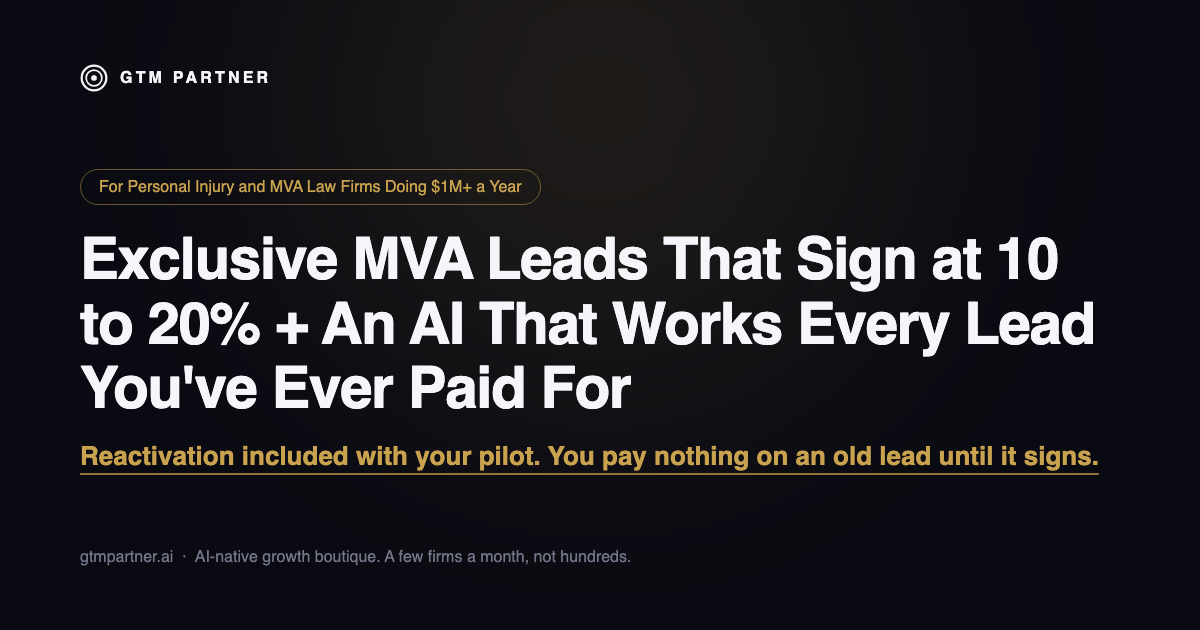
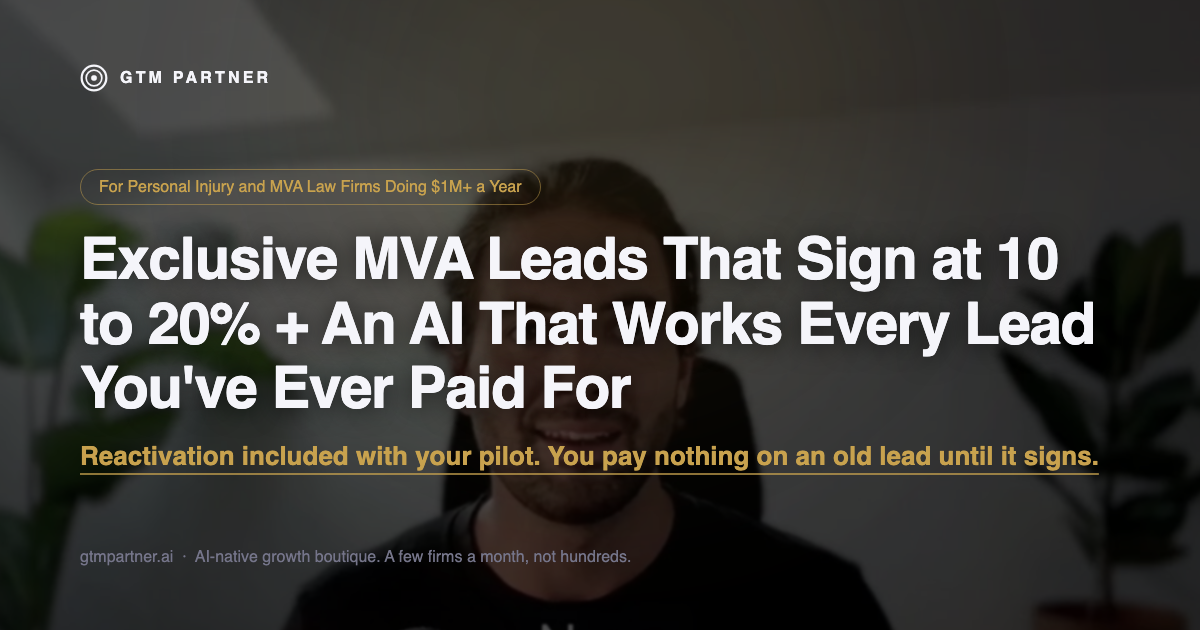
Add the VSL to the homepage
YouTube player behind a custom poster so one tap starts it with sound on
phones. No related videos, play event to Google tag, OG image from the
video still. Chat widget now loads after first scroll or 15s so it does
not cover the play button.

diff --git a/src/components/vsl.tsx b/src/components/vsl.tsx
@@ -1,63 +1,150 @@
 "use client";
 
-import { useState } from "react";
+import { useEffect, useRef, useState } from "react";
 
 type Aspect = "9/16" | "16/9";
 
+// Minimal surface of the YouTube IFrame API we touch.
+type YTPlayer = { playVideo: () => void; destroy: () => void };
+type YTNamespace = {
+  Player: new (
+    el: HTMLElement,
+    opts: {
+      videoId: string;
+      playerVars: Record<string, string | number>;
+      events: { onReady: (e: { target: YTPlayer }) => void; onStateChange: (e: { data: number }) => void };
+    },
+  ) => YTPlayer;
+  PlayerState: { PLAYING: number };
+};
+
+declare global {
+  interface Window {
+    YT?: YTNamespace;
+    onYouTubeIframeAPIReady?: () => void;
+    gtag?: (...args: unknown[]) => void;
+  }
+}
+
+const API_SRC = "https://www.youtube.com/iframe_api";
+
+function loadApi(): Promise<YTNamespace> {
+  return new Promise((resolve) => {
+    if (window.YT?.Player) return resolve(window.YT);
+    const prev = window.onYouTubeIframeAPIReady;
+    window.onYouTubeIframeAPIReady = () => {
+      prev?.();
+      if (window.YT) resolve(window.YT);
+    };
+    if (!document.querySelector(`script[src="${API_SRC}"]`)) {
+      const s = document.createElement("script");
+      s.src = API_SRC;
+      s.async = true;
+      document.head.appendChild(s);
+    }
+  });
+}
+
 /*
-  VSL_EMBED_PLACEHOLDER
-  TODO(Pierre): set `src` to the embed URL once the video exists.
-  Works with YouTube (youtube.com/embed/ID), Vimeo (player.vimeo.com/video/ID),
-  Loom (loom.com/embed/ID) and Tella (tella.tv/video/ID/embed).
-  Set `aspect` to "9/16" for a vertical video or "16/9" for a Tella recording.
-  Optional `poster` is shown until the visitor presses play.
+  The player is created behind the poster as soon as the page loads, so the
+  tap on the poster calls playVideo() inside the user gesture. That is what
+  makes it start with sound on iPhones, where an iframe added after the tap
+  is treated as autoplay and stays muted or does not start at all.
 */
 export function Vsl({
-  src = "",
-  aspect = "9/16",
+  videoId,
+  aspect = "16/9",
   poster = "",
+  duration = "",
   title = "GTM Partner video",
 }: {
-  src?: string;
+  videoId: string;
   aspect?: Aspect;
   poster?: string;
+  duration?: string;
   title?: string;
 }) {
   const [playing, setPlaying] = useState(false);
+  const [ready, setReady] = useState(false);
+  const mount = useRef<HTMLDivElement>(null);
+  const player = useRef<YTPlayer | null>(null);
   const vertical = aspect === "9/16";
 
-  // Width is derived from the aspect so a 9:16 video never exceeds 80vh
-  // and a 16:9 video fills the column. The ratio is reserved up front, so
-  // swapping in the real embed causes no layout shift.
-  // --vsl-h is 80vh on phones and shrinks on desktop so the CTA under the
-  // player stays above the fold on a 900px tall screen.
+  useEffect(() => {
+    if (!videoId || !mount.current) return;
+    let cancelled = false;
+    let instance: YTPlayer | null = null;
+    const host = document.createElement("div");
+    mount.current.appendChild(host);
+
+    loadApi().then((YT) => {
+      if (cancelled) return;
+      instance = new YT.Player(host, {
+        videoId,
+        playerVars: {
+          rel: 0,
+          modestbranding: 1,
+          playsinline: 1,
+          cc_load_policy: 1,
+          iv_load_policy: 3,
+          controls: 1,
+          origin: window.location.origin,
+        },
+        events: {
+          onReady: (e) => {
+            player.current = e.target;
+            setReady(true);
+          },
+          onStateChange: (e) => {
+            if (e.data === YT.PlayerState.PLAYING) {
+              setPlaying(true);
+              window.gtag?.("event", "vsl_play", { video_id: videoId });
+            }
+          },
+        },
+      });
+    });
+
+    return () => {
+      cancelled = true;
+      instance?.destroy();
+      player.current = null;
+      host.remove();
+    };
+  }, [videoId]);
+
+  const play = () => {
+    if (player.current) {
+      player.current.playVideo();
+      setPlaying(true);
+    }
+  };
+
+  // --vsl-h caps the player height: generous on phones, tighter on desktop
+  // so the CTA under it stays above the fold on a 900px tall screen.
   const style = vertical
     ? { aspectRatio: "9 / 16", width: "min(100%, calc(var(--vsl-h) * 9 / 16))" }
-    : { aspectRatio: "16 / 9", width: "100%" };
-
-  const embedSrc = src
-    ? `${src}${src.includes("?") ? "&" : "?"}autoplay=1&cc_load_policy=1`
-    : "";
+    : { aspectRatio: "16 / 9", width: "min(100%, calc(var(--vsl-h) * 16 / 9))" };
 
   return (
     <div
-      className="[--vsl-h:80vh] lg:[--vsl-h:50vh] relative mx-auto rounded-2xl overflow-hidden border border-border-default bg-surface-raised shadow-[0_0_80px_rgba(200,162,78,0.10)]"
+      className="[--vsl-h:80vh] lg:[--vsl-h:46vh] relative mx-auto rounded-2xl overflow-hidden border border-border-default bg-surface-raised shadow-[0_0_80px_rgba(200,162,78,0.12)]"
       style={style}
     >
-      {src && playing ? (
-        <iframe
-          src={embedSrc}
-          title={title}
-          className="absolute inset-0 w-full h-full"
-          allow="autoplay; fullscreen; picture-in-picture"
-          allowFullScreen
-        />
-      ) : (
+      {/* YouTube mounts its iframe here. [&_iframe] sizes it to the box. */}
+      <div
+        ref={mount}
+        className="absolute inset-0 [&_iframe]:absolute [&_iframe]:inset-0 [&_iframe]:w-full [&_iframe]:h-full"
+        aria-label={title}
+      />
+
+      {!playing && (
         <button
           type="button"
-          onClick={() => src && setPlaying(true)}
-          className="absolute inset-0 w-full h-full flex flex-col items-center justify-center gap-4 group"
-          aria-label={src ? "Play video" : "Video coming soon"}
+          onClick={play}
+          disabled={!!videoId && !ready}
+          className="absolute inset-0 w-full h-full group cursor-pointer disabled:cursor-wait"
+          aria-label={videoId ? "Play video" : "Video coming soon"}
         >
           {poster ? (
             // eslint-disable-next-line @next/next/no-img-element
@@ -65,21 +152,32 @@ export function Vsl({
               src={poster}
               alt=""
               className="absolute inset-0 w-full h-full object-cover"
-              loading="eager"
+              fetchPriority="high"
             />
           ) : (
             <div className="absolute inset-0 bg-[radial-gradient(ellipse_at_center,rgba(200,162,78,0.12),transparent_60%)]" />
           )}
-          <span className="relative w-20 h-14 rounded-xl bg-brand text-surface flex items-center justify-center shadow-[0_0_40px_rgba(200,162,78,0.45)] group-hover:scale-105 transition-transform">
-            <svg className="w-8 h-8 ml-1" viewBox="0 0 24 24" fill="currentColor" aria-hidden="true">
-              <path d="M8 5.14v14l11-7-11-7z" />
-            </svg>
-          </span>
-          {!src && (
-            <span className="relative text-[10px] uppercase tracking-[0.18em] text-text-muted">
-              Video coming soon
+          <div className="absolute inset-0 bg-gradient-to-t from-surface/80 via-surface/10 to-surface/20 group-hover:from-surface/70 transition-colors" />
+
+          <span className="absolute inset-0 flex items-center justify-center">
+            <span className="w-20 h-14 sm:w-24 sm:h-16 rounded-xl bg-brand text-surface flex items-center justify-center shadow-[0_0_50px_rgba(200,162,78,0.55)] group-hover:scale-105 transition-transform">
+              <svg className="w-8 h-8 sm:w-9 sm:h-9 ml-1" viewBox="0 0 24 24" fill="currentColor" aria-hidden="true">
+                <path d="M8 5.14v14l11-7-11-7z" />
+              </svg>
             </span>
-          )}
+          </span>
+
+          <span className="absolute left-4 right-4 bottom-4 flex items-end justify-between gap-3 text-left">
+            <span className="text-[11px] sm:text-xs font-medium text-text-primary/90 flex items-center gap-2">
+              <span className="w-1.5 h-1.5 rounded-full bg-brand" aria-hidden="true" />
+              {videoId ? "Tap to play with sound" : "Video coming soon"}
+            </span>
+            {duration && (
+              <span className="px-2 py-1 rounded-md bg-surface/80 text-[11px] font-semibold text-text-primary tabular-nums">
+                {duration}
+              </span>
+            )}
+          </span>
         </button>
       )}
     </div>

diff --git a/src/app/page.tsx b/src/app/page.tsx
@@ -4,12 +4,13 @@ import { Vsl } from "@/components/vsl";
 import { Testimonials } from "@/components/testimonials";
 import { HashRedirect } from "@/components/hash-redirect";
 
-// TODO(Pierre): VSL_EMBED_PLACEHOLDER. Paste the embed URL in `src`.
-// Set aspect to "16/9" if it is a Tella recording. Poster is optional.
+// The VSL. Swap the id to change the video; poster is the YouTube still
+// saved to /public so the first paint does not wait on YouTube.
 const VSL = {
-  src: "",
-  aspect: "9/16" as const,
-  poster: "",
+  videoId: "sZx0F15CPio",
+  aspect: "16/9" as const,
+  poster: "/vsl-poster.jpg",
+  duration: "6:30",
 };
 
 const CTA = "Book a Free Case Growth Call";
@@ -127,11 +128,11 @@ export default function Home() {
         <div className="absolute top-0 left-1/2 -translate-x-1/2 w-[900px] h-[600px] bg-brand/5 rounded-full blur-[120px] pointer-events-none" />
 
         <div className="relative mx-auto max-w-5xl px-6 text-center">
-          <span className="inline-block px-4 py-1.5 rounded-full border border-brand/40 bg-brand/10 text-xs font-medium text-brand mb-6">
+          <span className="inline-block text-balance px-4 py-1.5 rounded-full border border-brand/40 bg-brand/10 text-[11px] sm:text-xs font-medium text-brand mb-6">
             For Personal Injury and MVA Law Firms Doing $1M+ a Year
           </span>
 
-          <h1 className="text-[1.9rem] leading-[1.15] sm:text-4xl lg:text-[2.85rem] font-bold tracking-tight text-text-primary">
+          <h1 className="text-balance text-[1.9rem] leading-[1.15] sm:text-4xl lg:text-[2.7rem] font-bold tracking-tight text-text-primary">
             Exclusive MVA Leads That Sign at 10 to 20% + An AI That Works
             Every Lead You&rsquo;ve Ever Paid For
           </h1>
@@ -148,7 +149,7 @@ export default function Home() {
           </p>
 
           <div className="mt-6">
-            <Vsl src={VSL.src} aspect={VSL.aspect} poster={VSL.poster} />
+            <Vsl videoId={VSL.videoId} aspect={VSL.aspect} poster={VSL.poster} duration={VSL.duration} />
           </div>
 
           <div className="mt-6 flex justify-center">

diff --git a/src/app/layout.tsx b/src/app/layout.tsx
@@ -5,6 +5,7 @@ import { Nav } from "@/components/nav";
 import { Footer } from "@/components/footer";
 import { ScrollReveal } from "@/components/scroll-reveal";
 import { BackToTop } from "@/components/back-to-top";
+import { ChatWidget } from "@/components/chat-widget";
 import "./globals.css";
 
 const geistSans = Geist({
@@ -93,6 +94,8 @@ export default function RootLayout({
       className={`${geistSans.variable} ${geistMono.variable} antialiased`}
     >
       <head>
+        <link rel="preconnect" href="https://www.youtube.com" />
+        <link rel="preconnect" href="https://i.ytimg.com" />
         <script
           type="application/ld+json"
           dangerouslySetInnerHTML={{ __html: JSON.stringify(jsonLd) }}
@@ -110,14 +113,7 @@ function gtag(){dataLayer.push(arguments);}
 gtag('js', new Date());
 gtag('config', 'AW-18250922700');`}
         </Script>
-        {/* LeadConnector chat widget */}
-        <Script
-          src="https://widgets.leadconnectorhq.com/loader.js"
-          data-resources-url="https://widgets.leadconnectorhq.com/chat-widget/loader.js"
-          data-widget-id="6a71d820a4347d15e373f74f"
-          data-source="WEB_USER"
-          strategy="lazyOnload"
-        />
+        <ChatWidget />
         <Nav />
         <main className="flex-1">{children}</main>
         <Footer />

diff --git a/src/components/chat-widget.tsx b/src/components/chat-widget.tsx
@@ -1,0 +1,33 @@
+"use client";
+
+import { useEffect } from "react";
+
+// LeadConnector chat widget. Loaded after the first scroll or 15 seconds,
+// whichever comes first, so its greeting bubble does not sit on top of the
+// VSL play button in the first screen on phones.
+const WIDGET_ID = "6a71d820a4347d15e373f74f";
+
+export function ChatWidget() {
+  useEffect(() => {
+    let done = false;
+    const load = () => {
+      if (done) return;
+      done = true;
+      const s = document.createElement("script");
+      s.src = "https://widgets.leadconnectorhq.com/loader.js";
+      s.setAttribute("data-resources-url", "https://widgets.leadconnectorhq.com/chat-widget/loader.js");
+      s.setAttribute("data-widget-id", WIDGET_ID);
+      s.setAttribute("data-source", "WEB_USER");
+      s.async = true;
+      document.body.appendChild(s);
+      window.removeEventListener("scroll", load);
+    };
+    window.addEventListener("scroll", load, { passive: true, once: true });
+    const t = setTimeout(load, 15000);
+    return () => {
+      clearTimeout(t);
+      window.removeEventListener("scroll", load);
+    };
+  }, []);
+  return null;
+}
